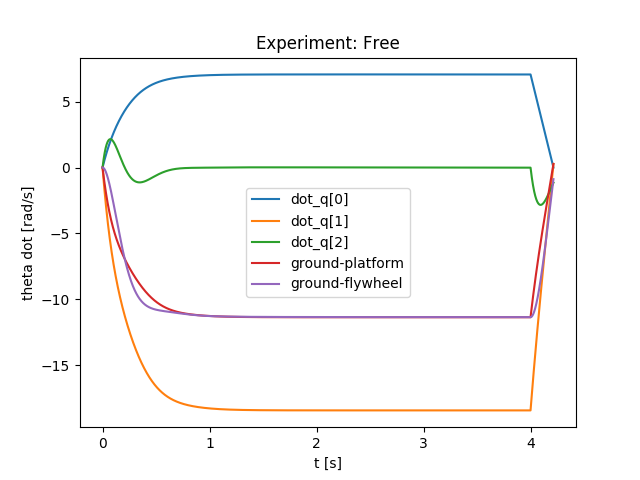
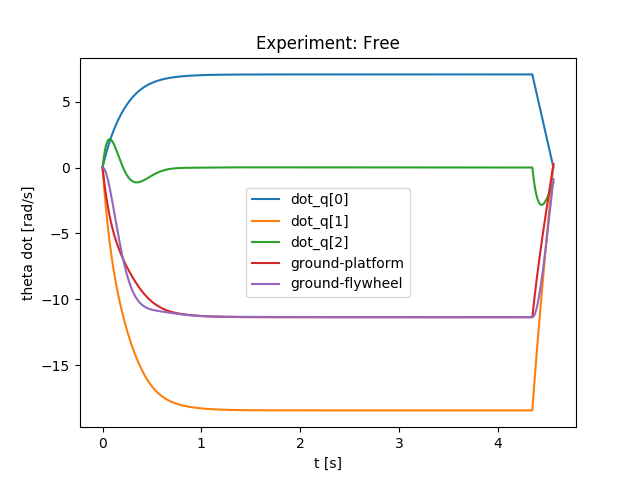
Free stops later

diff --git a/software/mechanical_computations/lagrange_5.py b/software/mechanical_computations/lagrange_5.py
@@ -19,12 +19,12 @@ class Experiment(Enum):
     Double = 6
 
 
-experiment = Experiment.Double
+experiment = Experiment.Free
 
 time_to_stop = {
     Experiment.Horizontal: 2.59,
     Experiment.Waitress_Old: 2.59,
-    Experiment.Free: 4,
+    Experiment.Free: 4.35,
     Experiment.Double: 3.56,
     Experiment.Compose: 3.54,
     Experiment.Waitress: 4.1,
